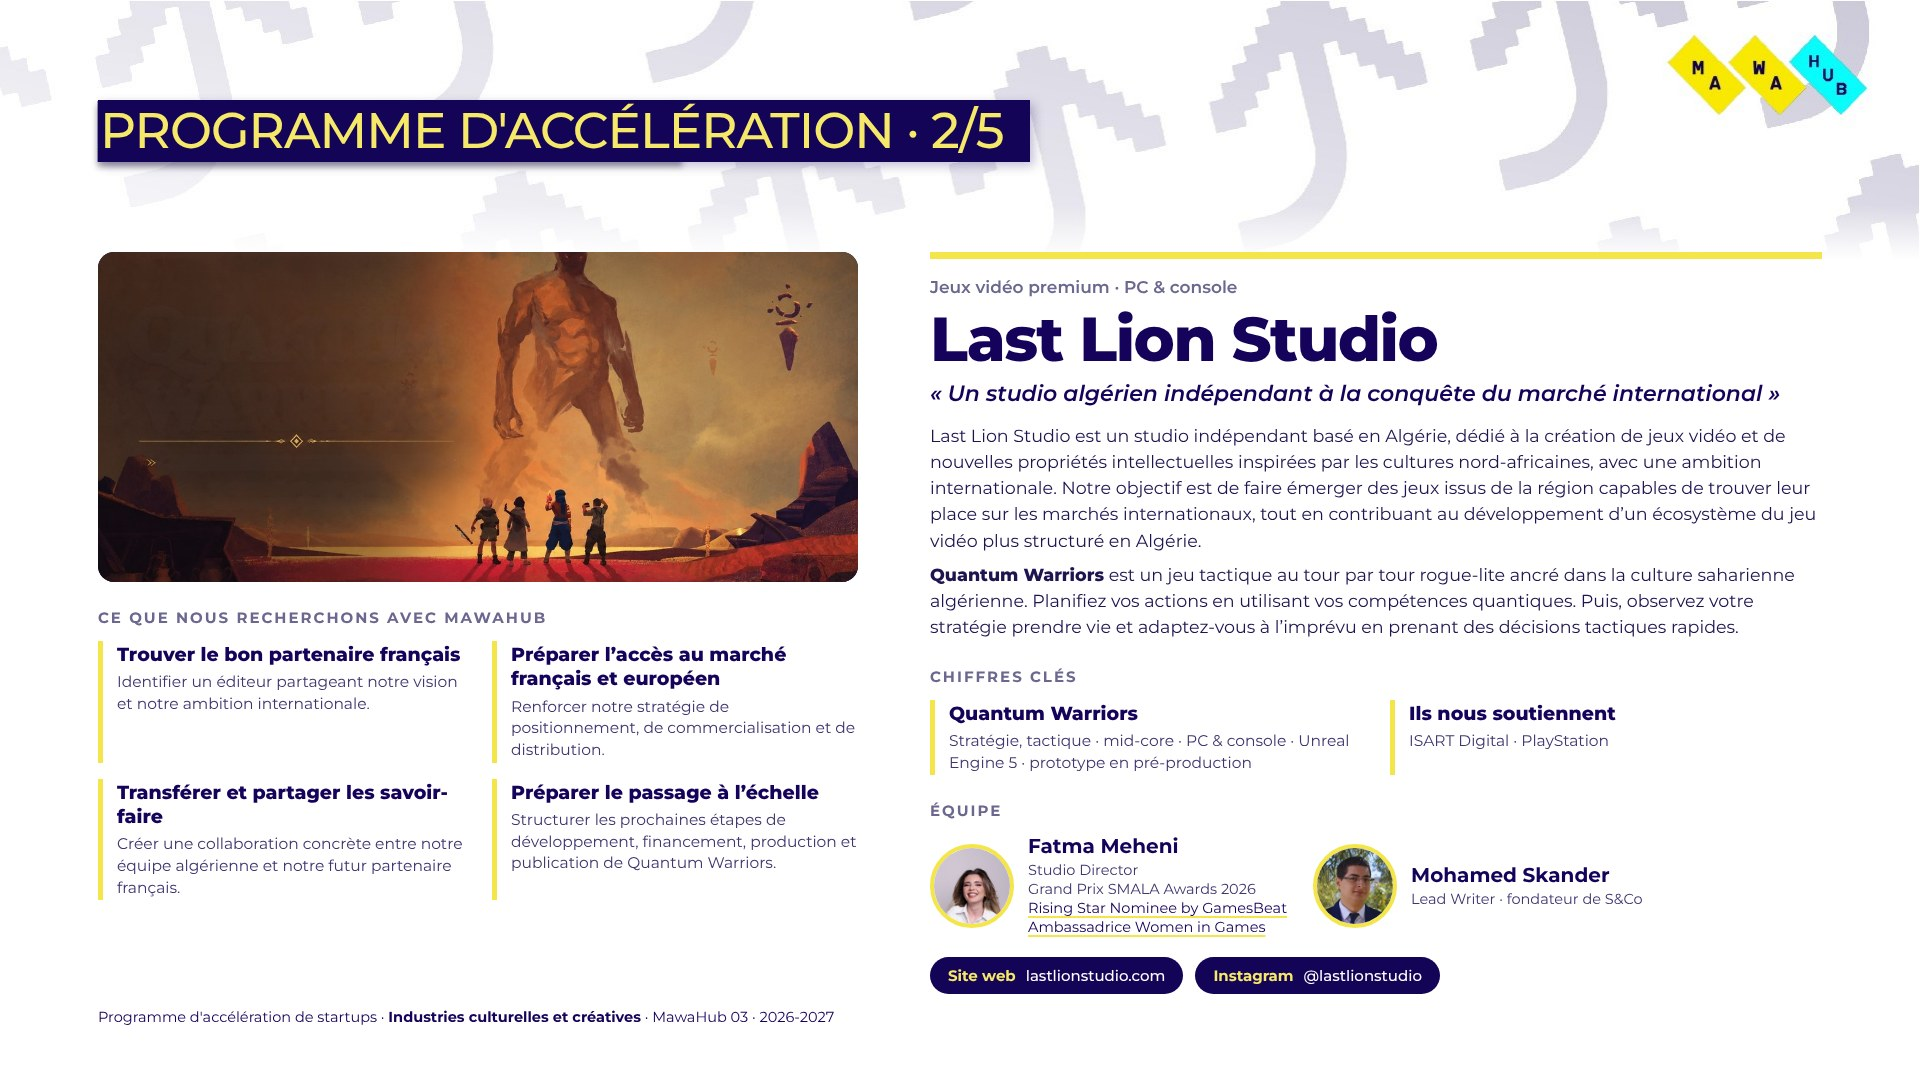
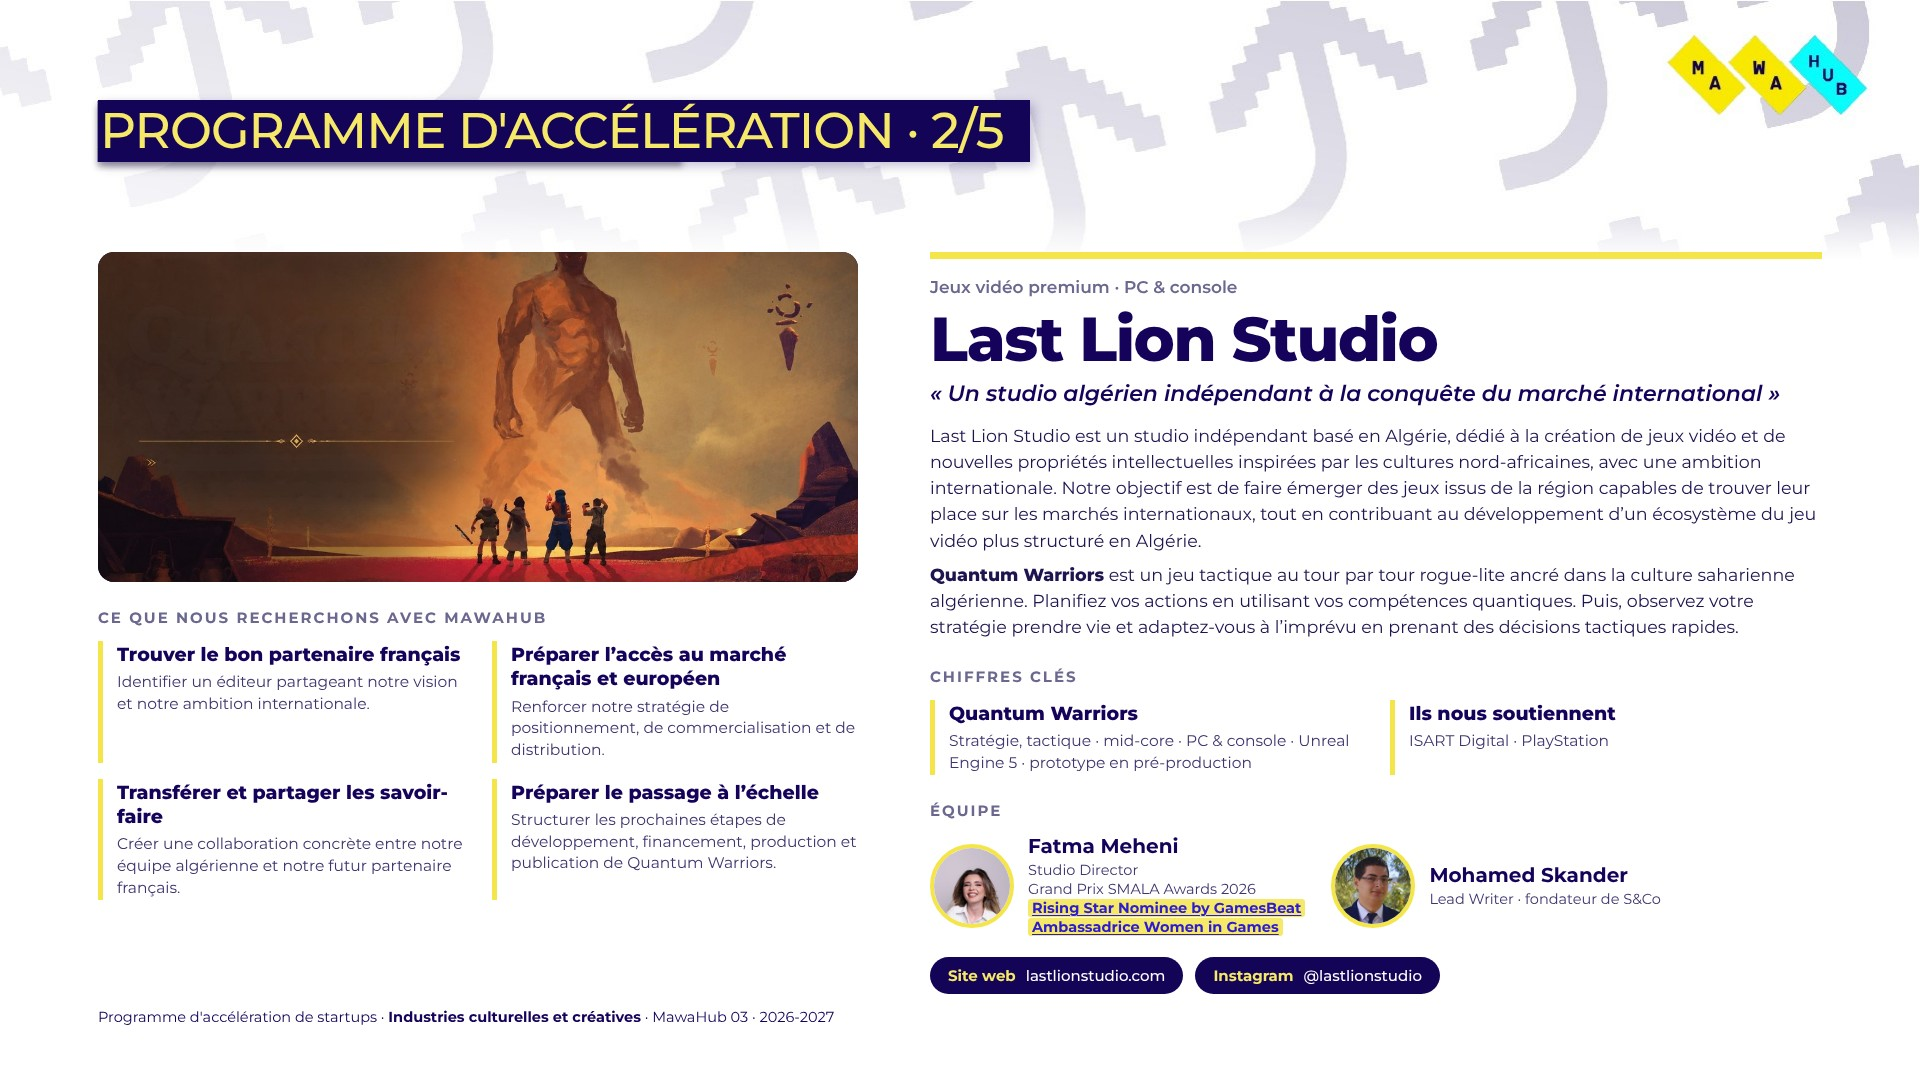
Accélération : liens de Fatma Meheni surlignés
Claude-Session: https://claude.ai/code/session_01QrjwZoKhcSYU2KQQ7JQuyG

Changed region(s): [[0.5312, 0.7639, 0.875, 0.8861]]

diff --git a/acceleration-2026-2027/index.html b/acceleration-2026-2027/index.html
@@ -112,7 +112,7 @@
     { t: 'MawaHub 03 · Programme d’accélération' },
     { t: 'Déroulé du programme d’accélération' },
     { t: 'Accélération · Nebul’Art' },
-    { t: 'Accélération · Last Lion Studio', links: [{ x: 514, y: 449, w: 130, h: 10, href: 'https://gamesbeat.com/', label: 'GamesBeat' }, { x: 514, y: 459, w: 119, h: 10, href: 'https://www.womeningames.org/', label: 'Women in Games' }, { x: 465, y: 478.4, w: 126.7, h: 18.5, href: 'https://www.lastlionstudio.com/', label: 'Site web de Last Lion Studio' }, { x: 597.7, y: 478.4, w: 122.3, h: 18.5, href: 'https://www.instagram.com/lastlionstudio/', label: 'Instagram de Last Lion Studio' }] },
+    { t: 'Accélération · Last Lion Studio', links: [{ x: 514, y: 449, w: 139, h: 10, href: 'https://gamesbeat.com/', label: 'GamesBeat' }, { x: 514, y: 459, w: 128, h: 10, href: 'https://www.womeningames.org/', label: 'Women in Games' }, { x: 465, y: 478.4, w: 126.7, h: 18.5, href: 'https://www.lastlionstudio.com/', label: 'Site web de Last Lion Studio' }, { x: 597.7, y: 478.4, w: 122.3, h: 18.5, href: 'https://www.instagram.com/lastlionstudio/', label: 'Instagram de Last Lion Studio' }] },
     { t: 'Accélération · Trendify' },
     { t: 'Accélération · zLABsh' },
     { t: 'Accélération · Les Petits Bâtisseurs' },
